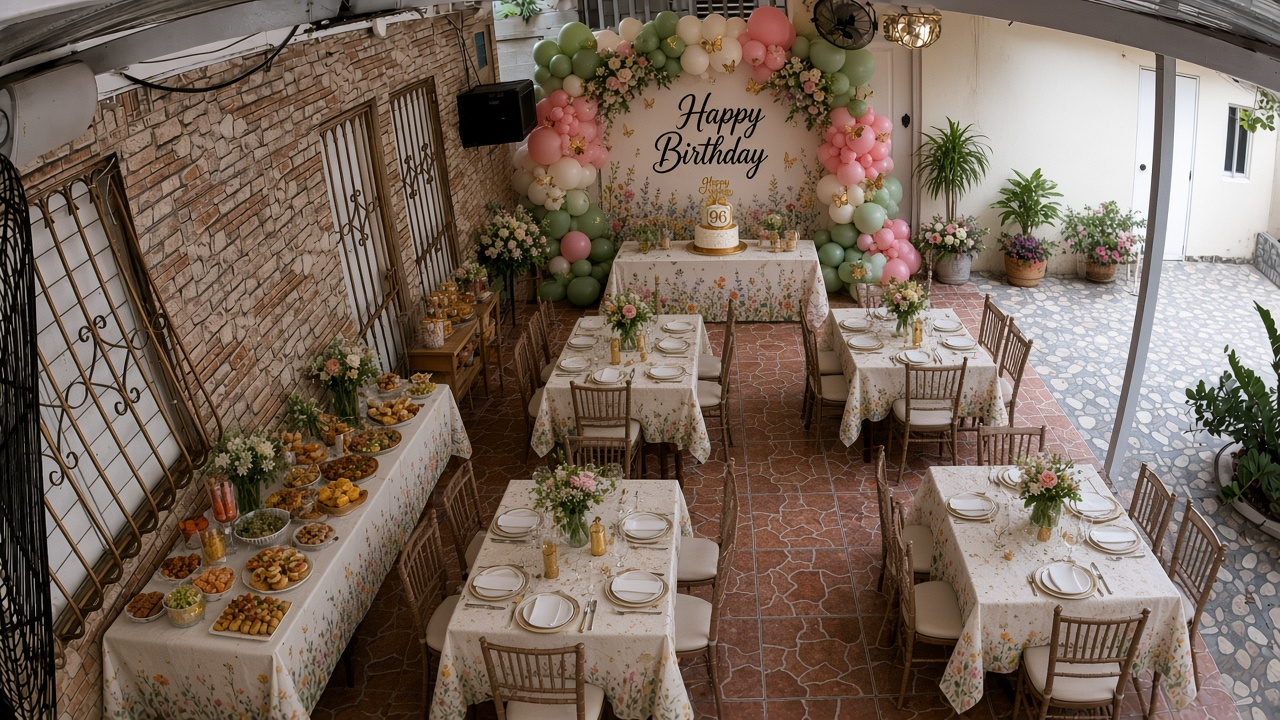
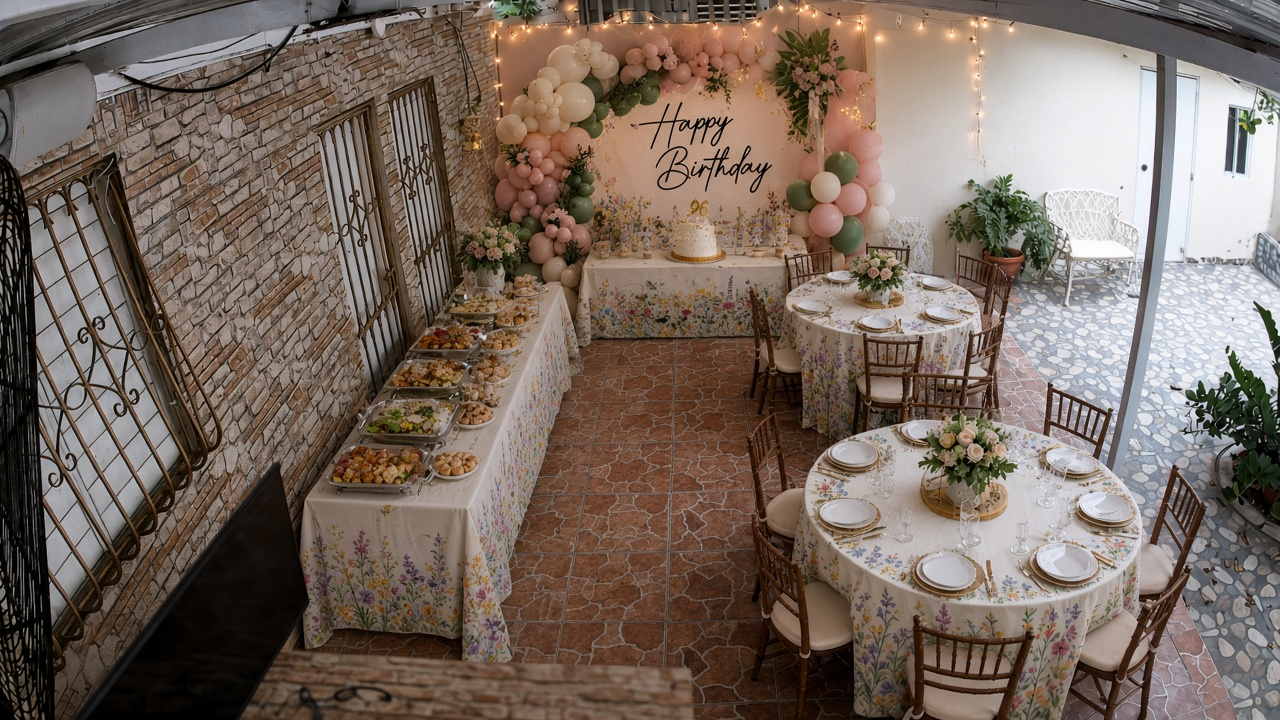
Fix TV wall orientation and equal brown/gray widths
Place the TV on the camera-end wall facing the cake, make the
brown and gray bands about equal width, and regenerate a
realistic render from the Wyze vantage toward the cake wall.

diff --git a/birthday-party-plan/index.html b/birthday-party-plan/index.html
@@ -3,7 +3,7 @@
 <head>
   <meta charset="UTF-8" />
   <meta name="viewport" content="width=device-width, initial-scale=1" />
-  <title>96th Birthday — Optimized 65-Seat Layout</title>
+  <title>96th Birthday — Equal-width patio · TV faces cake</title>
   <link rel="preconnect" href="https://fonts.googleapis.com" />
   <link rel="preconnect" href="https://fonts.gstatic.com" crossorigin />
   <link href="https://fonts.googleapis.com/css2?family=Cormorant+Garamond:ital,wght@0,500;0,600;1,500&family=Outfit:wght@300;400;500;600&display=swap" rel="stylesheet" />
@@ -17,198 +17,97 @@
     body {
       font-family: "Outfit", system-ui, sans-serif; color: var(--ink);
       background:
-        radial-gradient(ellipse 80% 50% at 10% 0%, rgba(125,143,106,0.18), transparent 55%),
+        radial-gradient(ellipse 80% 50% at 10% 0%, rgba(125,143,106,0.16), transparent 55%),
         linear-gradient(180deg, #efe8dc, var(--cream) 45%, #e7dfd2);
       min-height: 100vh; line-height: 1.45;
     }
     header, main, footer { max-width: 1100px; margin: 0 auto; padding-left: 1.5rem; padding-right: 1.5rem; }
-    header { padding-top: 2.5rem; padding-bottom: 1rem; }
-    .eyebrow { font-size: 0.75rem; letter-spacing: 0.18em; text-transform: uppercase; color: var(--sage-deep); font-weight: 500; margin-bottom: 0.5rem; }
-    h1 { font-family: "Cormorant Garamond", Georgia, serif; font-weight: 600; font-size: clamp(2rem, 4vw, 2.8rem); }
+    header { padding-top: 2.4rem; padding-bottom: 1rem; }
+    .eyebrow { font-size: 0.72rem; letter-spacing: 0.16em; text-transform: uppercase; color: var(--sage-deep); font-weight: 500; margin-bottom: 0.45rem; }
+    h1 { font-family: "Cormorant Garamond", Georgia, serif; font-weight: 600; font-size: clamp(1.9rem, 3.8vw, 2.7rem); }
     h1 em { font-style: italic; color: var(--sage-deep); font-weight: 500; }
-    .lede { max-width: 48rem; margin-top: 0.75rem; color: var(--muted); font-weight: 300; font-size: 1.05rem; }
-    .meta { display: flex; flex-wrap: wrap; gap: 0.55rem; margin-top: 1.2rem; }
-    .chip { border: 1px solid var(--line); background: rgba(255,250,243,0.75); padding: 0.35rem 0.7rem; font-size: 0.78rem; }
+    .lede { max-width: 46rem; margin-top: 0.7rem; color: var(--muted); font-weight: 300; font-size: 1.02rem; }
+    .meta { display: flex; flex-wrap: wrap; gap: 0.5rem; margin-top: 1.1rem; }
+    .chip { border: 1px solid var(--line); background: rgba(255,250,243,0.75); padding: 0.32rem 0.65rem; font-size: 0.76rem; }
     .chip strong { color: var(--sage-deep); }
-    main { padding: 1rem 1.5rem 3rem; display: grid; gap: 1.35rem; }
-    .plan-card { background: var(--ivory); border: 1px solid var(--line); box-shadow: 0 18px 40px rgba(44,42,38,0.06); overflow: hidden; }
-    .plan-card img, .plan-card svg { width: 100%; display: block; }
-    .caption { padding: 0.85rem 1rem; font-size: 0.85rem; color: var(--muted); border-top: 1px solid var(--line); }
-    .grid-2 { display: grid; grid-template-columns: 1fr 1fr; gap: 1.25rem; }
+    main { padding: 1rem 1.5rem 3rem; display: grid; gap: 1.25rem; }
+    .plan-card { background: var(--ivory); border: 1px solid var(--line); box-shadow: 0 16px 36px rgba(44,42,38,0.06); overflow: hidden; }
+    .plan-card img { width: 100%; display: block; }
+    .caption { padding: 0.8rem 1rem; font-size: 0.84rem; color: var(--muted); border-top: 1px solid var(--line); }
+    .grid-2 { display: grid; grid-template-columns: 1fr 1fr; gap: 1.15rem; }
     @media (max-width: 800px) { .grid-2 { grid-template-columns: 1fr; } }
-    section.panel { background: rgba(255,250,243,0.75); border: 1px solid var(--line); padding: 1.25rem 1.35rem; }
-    section.panel h2 { font-family: "Cormorant Garamond", Georgia, serif; font-size: 1.45rem; margin-bottom: 0.55rem; }
+    section.panel { background: rgba(255,250,243,0.75); border: 1px solid var(--line); padding: 1.2rem 1.3rem; }
+    section.panel h2 { font-family: "Cormorant Garamond", Georgia, serif; font-size: 1.4rem; margin-bottom: 0.5rem; }
     section.panel p, section.panel li { color: var(--muted); font-size: 0.92rem; }
-    section.panel ul { list-style: none; display: grid; gap: 0.5rem; margin-top: 0.75rem; }
+    section.panel ul { list-style: none; display: grid; gap: 0.45rem; margin-top: 0.7rem; }
     section.panel li::before { content: ""; display: inline-block; width: 0.4rem; height: 0.4rem; background: var(--blush); margin-right: 0.5rem; vertical-align: middle; }
-    .capacity { display: grid; grid-template-columns: repeat(3, 1fr); gap: 0.7rem; margin-top: 0.9rem; }
-    .stat { border-top: 2px solid var(--sage); padding-top: 0.45rem; }
-    .stat .n { font-family: "Cormorant Garamond", Georgia, serif; font-size: 1.85rem; color: var(--sage-deep); line-height: 1; }
-    .stat .l { font-size: 0.75rem; color: var(--muted); margin-top: 0.2rem; }
-    .note { border-left: 3px solid var(--blush); padding-left: 0.85rem; margin-top: 0.9rem; font-size: 0.88rem; color: var(--muted); }
+    .note { border-left: 3px solid var(--blush); padding-left: 0.8rem; margin-top: 0.85rem; font-size: 0.88rem; color: var(--muted); }
     footer { padding-bottom: 3rem; color: var(--muted); font-size: 0.8rem; }
   </style>
 </head>
 <body>
   <header>
-    <p class="eyebrow">Space &amp; function · 65 guests · 8-tray buffet</p>
-    <h1>Optimized table layout for <em>grandma’s 96th</em></h1>
+    <p class="eyebrow">Corrected orientation · equal-width bands · realistic render</p>
+    <h1>TV wall faces the <em>cake wall</em></h1>
     <p class="lede">
-      Cake/photo on the far white wall; <strong>TV wall opposite on the same straight brown-tile run</strong>
-      with the <strong>bathroom door beside the TV</strong> kept clear; buffet for <strong>8 trays</strong> on the stone wall;
-      rounds packed with a center aisle along the cake↔TV axis.
+      Camera sits on the <strong>TV wall</strong> looking toward the cake. The TV is on that wall and
+      <strong>faces the cake area</strong> — not the far wall. Brown and gray bands are
+      <strong>about the same width</strong>.
     </p>
     <div class="meta">
-      <span class="chip"><strong>Axis</strong> cake ↔ TV · straight brown</span>
-      <span class="chip"><strong>65</strong> seated</span>
-      <span class="chip"><strong>Buffet</strong> 8 trays · one-way</span>
-      <span class="chip"><strong>Bath</strong> 4′ clear at TV wall</span>
+      <span class="chip"><strong>TV</strong> on camera wall · faces cake</span>
+      <span class="chip"><strong>Brown ≈ gray</strong> width</span>
+      <span class="chip"><strong>65</strong> seated · 8-tray buffet</span>
+      <span class="chip"><strong>Bath</strong> beside TV · 4′ clear</span>
     </div>
   </header>
 
   <main>
-    <div class="plan-card">
-      <img src="./assets/patio-floor-plan-65.png" alt="Optimized floor plan for 65 seats with 8-tray buffet and bathroom clear at TV wall" />
-      <p class="caption">Cake wall and TV wall face each other across one straight brown-tile rectangle under the roof; gray only right of the pole.</p>
+    <div class="grid-2">
+      <div class="plan-card">
+        <img src="./assets/wyze-from-tv-wall.jpg" alt="Wyze camera on TV wall looking toward cake wall" />
+        <p class="caption">Real view from the TV/camera wall toward the cake wall — brown left, gray right, ≈ equal width.</p>
+      </div>
+      <div class="plan-card">
+        <img src="./assets/tv-wall-facing.jpg" alt="TV wall with bathroom door beside TV" />
+        <p class="caption">TV wall itself — TV faces the cake; bathroom is the paneled door beside the TV.</p>
+      </div>
     </div>
 
     <div class="plan-card">
-      <svg viewBox="0 0 720 500" xmlns="http://www.w3.org/2000/svg" role="img">
-        <title>Optimized schematic — TV/bath end, cake end, 8-tray buffet, 65 seats</title>
-        <defs>
-          <pattern id="br" width="12" height="12" patternUnits="userSpaceOnUse">
-            <rect width="12" height="12" fill="#e4d0b8"/>
-            <path d="M0 12 L12 0" stroke="#d2b896" stroke-width="0.7"/>
-          </pattern>
-          <pattern id="gr" width="10" height="10" patternUnits="userSpaceOnUse">
-            <rect width="10" height="10" fill="#e8e4dc"/>
-            <circle cx="3" cy="4" r="1.2" fill="#d0cbc0"/>
-            <circle cx="7" cy="7" r="1.5" fill="#c9c3b6"/>
-          </pattern>
-        </defs>
-        <rect width="720" height="500" fill="#f3ebe0"/>
-        <text x="18" y="24" font-family="Cormorant Garamond, Georgia, serif" font-size="16" font-weight="600" fill="#2c2a26">OPTIMIZED FLOW · 65 SEATS · 8-TRAY BUFFET</text>
-        <text x="18" y="40" font-family="Outfit, sans-serif" font-size="9" fill="#6b655c">Cake wall ↔ TV/bath wall · brown under roof · gray only right of pole</text>
+      <img src="./assets/patio-floor-plan-65.png" alt="Floor plan with equal brown and gray widths, TV facing cake" />
+      <p class="caption">Floor plan — equal-width brown/gray bands; TV at bottom facing cake at top; bath clear; 8-tray buffet; 65 seats.</p>
+    </div>
 
-        <!-- Gray -->
-        <rect x="430" y="50" width="200" height="380" fill="url(#gr)" stroke="#8a8378"/>
-        <text x="530" y="68" text-anchor="middle" font-size="8" fill="#5c6b4a" font-family="Outfit, sans-serif">GRAY · OUTSIDE ROOF</text>
-
-        <!-- Brown -->
-        <rect x="40" y="50" width="390" height="380" fill="url(#br)" stroke="#8a7460" stroke-width="2"/>
-        <rect x="40" y="50" width="10" height="380" fill="#c4b09a"/>
-
-        <!-- CAKE WALL north -->
-        <rect x="40" y="50" width="390" height="8" fill="#f5f2ea" stroke="#c9bfb0"/>
-        <text x="235" y="45" text-anchor="middle" font-size="8" fill="#8a6b1f" font-family="Outfit, sans-serif" font-weight="600">CAKE WALL · PHOTO</text>
-        <rect x="140" y="65" width="180" height="48" fill="none" stroke="#c9a84c" stroke-width="2"/>
-        <rect x="165" y="72" width="130" height="7" fill="#f7f1e8" stroke="#d4a5a0"/>
-        <text x="230" y="77" text-anchor="middle" font-size="5.5" fill="#2c2a26" font-family="Cormorant Garamond, Georgia, serif" font-style="italic">Happy Birthday</text>
-        <rect x="200" y="85" width="60" height="18" rx="2" fill="#fffaf3" stroke="#d4a5a0"/>
-        <text x="230" y="97" text-anchor="middle" font-size="7" fill="#5c6b4a" font-family="Outfit, sans-serif">CAKE 96</text>
-        <circle cx="150" cy="90" r="5" fill="#7d8f6a"/><circle cx="310" cy="90" r="5" fill="#d4a5a0"/>
-
-        <!-- Honor -->
-        <rect x="70" y="120" width="55" height="26" rx="2" fill="#fffaf3" stroke="#c9a84c" stroke-width="1.8"/>
-        <text x="97" y="137" text-anchor="middle" font-size="8" fill="#8a6b1f" font-family="Outfit, sans-serif">HONOR 9</text>
-
-        <!-- Buffet 8 trays -->
-        <rect x="58" y="160" width="26" height="175" rx="2" fill="#fffaf3" stroke="#7d8f6a" stroke-width="1.8"/>
-        <text x="71" y="220" text-anchor="middle" font-size="8" fill="#5c6b4a" font-family="Outfit, sans-serif" transform="rotate(-90 71 220)">BUFFET · 8 TRAYS</text>
-        <!-- tray ticks -->
-        <g stroke="#7d8f6a" stroke-width="1">
-          <line x1="58" y1="175" x2="84" y2="175"/><line x1="58" y1="195" x2="84" y2="195"/>
-          <line x1="58" y1="215" x2="84" y2="215"/><line x1="58" y1="235" x2="84" y2="235"/>
-          <line x1="58" y1="255" x2="84" y2="255"/><line x1="58" y1="275" x2="84" y2="275"/>
-          <line x1="58" y1="295" x2="84" y2="295"/><line x1="58" y1="315" x2="84" y2="315"/>
-        </g>
-        <path d="M95 320 L95 170" stroke="#9a7b9a" stroke-width="1.2" stroke-dasharray="3 2" fill="none" marker-end="url(#a)"/>
-        <text x="108" y="245" font-size="7" fill="#9a7b9a" font-family="Outfit, sans-serif" transform="rotate(-90 108 245)">plates → trays → seats</text>
-
-        <!-- Rounds R1-R5 -->
-        <g fill="#fffaf3" stroke="#d4a5a0" stroke-width="1.4">
-          <circle cx="175" cy="175" r="26"/><circle cx="310" cy="175" r="26"/>
-          <circle cx="240" cy="250" r="26"/>
-          <circle cx="175" cy="325" r="26"/><circle cx="310" cy="325" r="26"/>
-        </g>
-        <g font-family="Outfit, sans-serif" text-anchor="middle" fill="#5c6b4a" font-size="9">
-          <text x="175" y="178">R1·8</text><text x="310" y="178">R2·8</text>
-          <text x="240" y="253">R3·8</text>
-          <text x="175" y="328">R4·8</text><text x="310" y="328">R5·8</text>
-        </g>
-        <!-- center aisle -->
-        <path d="M240 400 L240 120" stroke="#9a7b9a" stroke-width="1.5" stroke-dasharray="4 3" fill="none"/>
-        <text x="252" y="270" font-size="7" fill="#9a7b9a" font-family="Outfit, sans-serif">center aisle</text>
-
-        <!-- TV / BATH south -->
-        <rect x="40" y="390" width="390" height="40" fill="#fff5f0" stroke="#c45c5c" stroke-width="1.5" stroke-dasharray="4 2"/>
-        <text x="235" y="408" text-anchor="middle" font-size="8" fill="#a33" font-family="Outfit, sans-serif" font-weight="600">4′ CLEAR · TV WALL</text>
-        <rect x="160" y="412" width="50" height="14" fill="#2c2a26"/>
-        <text x="185" y="422" text-anchor="middle" font-size="6" fill="#fff" font-family="Outfit, sans-serif">TV</text>
-        <rect x="230" y="412" width="55" height="14" fill="#fff" stroke="#a33" stroke-width="1.5"/>
-        <text x="257" y="422" text-anchor="middle" font-size="6" fill="#a33" font-family="Outfit, sans-serif">BATH</text>
-        <rect x="100" y="412" width="40" height="14" fill="#fff" stroke="#8a8378"/>
-        <text x="120" y="422" text-anchor="middle" font-size="6" fill="#6b655c" font-family="Outfit, sans-serif">DOOR</text>
-        <text x="235" y="445" text-anchor="middle" font-size="7" fill="#a33" font-family="Outfit, sans-serif">bathroom door beside TV — no tables in this strip</text>
-
-        <!-- Roof edge + pole -->
-        <line x1="430" y1="50" x2="430" y2="430" stroke="#c9a84c" stroke-width="2.5"/>
-        <rect x="424" y="230" width="12" height="12" fill="#fff" stroke="#c9a84c" stroke-width="2"/>
-        <text x="430" y="255" text-anchor="middle" font-size="7" fill="#8a6b1f" font-family="Outfit, sans-serif">POLE</text>
-
-        <!-- Tree + R6 R7 -->
-        <circle cx="530" cy="240" r="28" fill="#9bb07f" opacity="0.35"/>
-        <circle cx="530" cy="240" r="8" fill="#5c6b4a"/>
-        <circle cx="530" cy="240" r="32" fill="none" stroke="#c4b09a" stroke-width="3"/>
-        <text x="530" y="285" text-anchor="middle" font-size="7" fill="#8a6b1f" font-family="Outfit, sans-serif">TREE</text>
-        <circle cx="485" cy="155" r="22" fill="#fffaf3" stroke="#d4a5a0" stroke-width="1.4"/>
-        <circle cx="575" cy="330" r="22" fill="#fffaf3" stroke="#d4a5a0" stroke-width="1.4"/>
-        <text x="485" y="158" text-anchor="middle" font-size="8" fill="#5c6b4a" font-family="Outfit, sans-serif">R6·8</text>
-        <text x="575" y="333" text-anchor="middle" font-size="8" fill="#5c6b4a" font-family="Outfit, sans-serif">R7·8</text>
-
-        <!-- Legend -->
-        <g transform="translate(640, 60)" font-family="Outfit, sans-serif" font-size="8" fill="#6b655c">
-          <text y="0" fill="#5c6b4a" font-weight="500">65 SEATS</text>
-          <text y="18">Honor 9</text>
-          <text y="34">R1–R5 40</text>
-          <text y="50">R6–R7 16</text>
-          <line x1="0" y1="60" x2="55" y2="60" stroke="#c9bfb0"/>
-          <text y="78" fill="#5c6b4a" font-family="Cormorant Garamond, Georgia, serif" font-size="14" font-weight="600">= 65</text>
-        </g>
-      </svg>
-      <p class="caption">Flow schematic — bath clear at south, buffet one-way on stone wall, photo at north, overflow on gray.</p>
+    <div class="plan-card">
+      <img src="./assets/patio-party-spatial-render.png" alt="Realistic party render from TV wall looking toward cake" />
+      <p class="caption">Realistic render from the same vantage as the Wyze photo — cake/décor on the far wall; TV stays on the camera-end wall (behind the view).</p>
     </div>
 
     <div class="grid-2">
       <section class="panel">
-        <h2>How to pack 65</h2>
+        <h2>What changed</h2>
         <ul>
-          <li><strong>Honor 9</strong> — cake-wall end, offset so the photo floor stays open</li>
-          <li><strong>R1–R5 (40)</strong> — rounds on brown, two columns + center aisle (bath ↔ photo)</li>
-          <li><strong>R6–R7 (16)</strong> — gray outside, around the tree past the pole</li>
-          <li><strong>Rounds not banquets</strong> — fit the narrow covered strip and match your photo</li>
+          <li>TV is on the <strong>camera/TV wall</strong>, facing the cake — not on the far wall</li>
+          <li>Brown and gray are <strong>≈ equal width</strong> side by side</li>
+          <li>Render matches the real Wyze angle and materials</li>
         </ul>
-        <div class="capacity">
-          <div class="stat"><div class="n">9</div><div class="l">Honor</div></div>
-          <div class="stat"><div class="n">40</div><div class="l">Under roof</div></div>
-          <div class="stat"><div class="n">16</div><div class="l">By the tree</div></div>
-        </div>
+        <p class="note">Bathroom door stays beside the TV with a 4′ clear strip — no tables in that zone.</p>
       </section>
       <section class="panel">
-        <h2>Buffet · bath · photo</h2>
+        <h2>65 seats + buffet</h2>
         <ul>
-          <li><strong>8 trays</strong> on the stone wall (~16′ line), mid-patio</li>
-          <li><strong>One-way</strong> plates near TV end → trays → exit to seats toward cake</li>
-          <li><strong>Bathroom</strong> door beside TV — full-width 4′ clear, no chairs in the swing</li>
-          <li><strong>Don’t mix</strong> buffet queue with bathroom traffic</li>
+          <li><strong>Honor 9</strong> near cake (offset for photos)</li>
+          <li><strong>R1–R5 = 40</strong> on brown under the roof</li>
+          <li><strong>R6–R7 = 16</strong> on gray by the tree</li>
+          <li><strong>8-tray buffet</strong> on the stone/brick wall, one-way toward cake</li>
         </ul>
-        <p class="note">Keep drinks at the buffet start or a small station near the stone wall — not in front of the bathroom door.</p>
       </section>
     </div>
   </main>
 
   <footer>
-    Confirm on-site: bathroom door swing, tray table length, and 36″ minimum aisles past the pole.
+    Geometry locked to your TV-wall and Wyze photos. Confirm tray length and aisle widths on site.
   </footer>
 </body>
 </html>

diff --git a/birthday-party-plan/README.md b/birthday-party-plan/README.md
@@ -1,43 +1,48 @@
-# Grandma’s 96th — Optimized layout (65 seated)
+# Grandma’s 96th — Corrected layout (65 seated)
 
-Geometry matches the correct patio photo. This plan adds **function**: bathroom at the TV end, **8-tray buffet**, photo zone at the cake wall.
+## Orientation (locked to your photos)
 
-## Ends of the patio (facing each other)
+The **Wyze camera sits on the TV wall**, looking toward the **cake wall**.
 
-| End | What’s there | Rule |
-|-----|----------------|------|
-| **Cake wall** | Backdrop, balloons, cake | Clear stand space for photos with grandma |
-| **TV wall** (opposite, same brown-tile axis) | TV + **bathroom door** beside TV | **4′ clear corridor** — no tables against that wall |
+| | |
+|--|--|
+| **TV wall** (camera end) | TV mounted here, **screen faces the cake**. Bathroom door beside the TV. Keep **4′ clear**. |
+| **Cake wall** (opposite) | Backdrop + cake. Fridge/chairs removed. Same brown tiles under the roof. |
+| **Brown band** | Under the roof, along the stone/brick wall — **≈ same width as gray** |
+| **Gray band** | Outside the roof, other side of the pole — **≈ same width as brown** |
 
-These two walls face each other in a **straight line of brown tiling under one roof**. Gray tiles are only outside the roof, beside that strip (pole on the roof edge).
+Brown runs in a straight line from TV wall → cake wall. Gray runs beside it, not under the roof.
 
-## Optimized seating (65)
+```
+        CAKE WALL (backdrop + cake)
+   ┌─────────────┬─────────────┐
+   │   BROWN     │    GRAY     │
+   │  under roof │  outside    │
+   │  ≈ equal    │  ≈ equal    │
+   │  width      │  width      │
+   │  buffet +   │  tree +     │
+   │  R1–R5      │  R6–R7      │
+   └─────────────┴─────────────┘
+        TV WALL (TV faces cake · bath beside TV)
+```
 
-| Zone | Setup | Seats |
-|------|--------|------:|
-| Honor | Near cake wall, offset so photo floor stays open | 9 |
-| R1–R5 | Round tables on **brown under roof**, two columns + **center aisle** (bath → photo) | 40 |
-| R6–R7 | Round tables on **gray** around the tree | 16 |
-| **Total** | | **65** |
+## Seating (65)
 
-**Why rounds:** Match your photo’s table style and fit the narrow covered strip better than long banquets (easier aisles past the pole and buffet).
+| Zone | Seats |
+|------|------:|
+| Honor near cake (offset) | 9 |
+| R1–R5 on brown | 40 |
+| R6–R7 on gray by tree | 16 |
+| **Total** | **65** |
 
-## 8-tray buffet
+## Buffet
 
-- Long table on the **stone wall** (same side as your photo)
-- Mid-run: not in the photo zone, not in the bathroom corridor
-- **One-way:** plates start nearer the TV end → Tray 1…8 toward the cake end → guests peel off to seats
-- About **16′** of serving length for 8 trays + plates/napkins
-
-## Circulation (priority order)
-
-1. **Bathroom** — clear strip across the TV wall; door swing free  
-2. **Buffet queue** — along stone wall, separate from bath traffic  
-3. **Photo aisle** — center spine from mid-patio to cake wall  
-4. **Gray overflow** — past the pole around the tree  
+8 trays on the stone/brick wall (brown side), one-way: plates nearer TV end → trays toward cake → seats. Not in the bathroom clear zone.
 
 ## Files
 
-- [Floor plan](./assets/patio-floor-plan-65.png)  
-- [Reference photo](./assets/correct-patio-reference.jpg)  
-- [Interactive plan](./index.html)  
+- [Floor plan](./assets/patio-floor-plan-65.png)
+- [Realistic render from TV/camera wall](./assets/patio-party-spatial-render.png)
+- [Wyze view toward cake](./assets/wyze-from-tv-wall.jpg)
+- [TV wall photo](./assets/tv-wall-facing.jpg)
+- [Interactive plan](./index.html)
